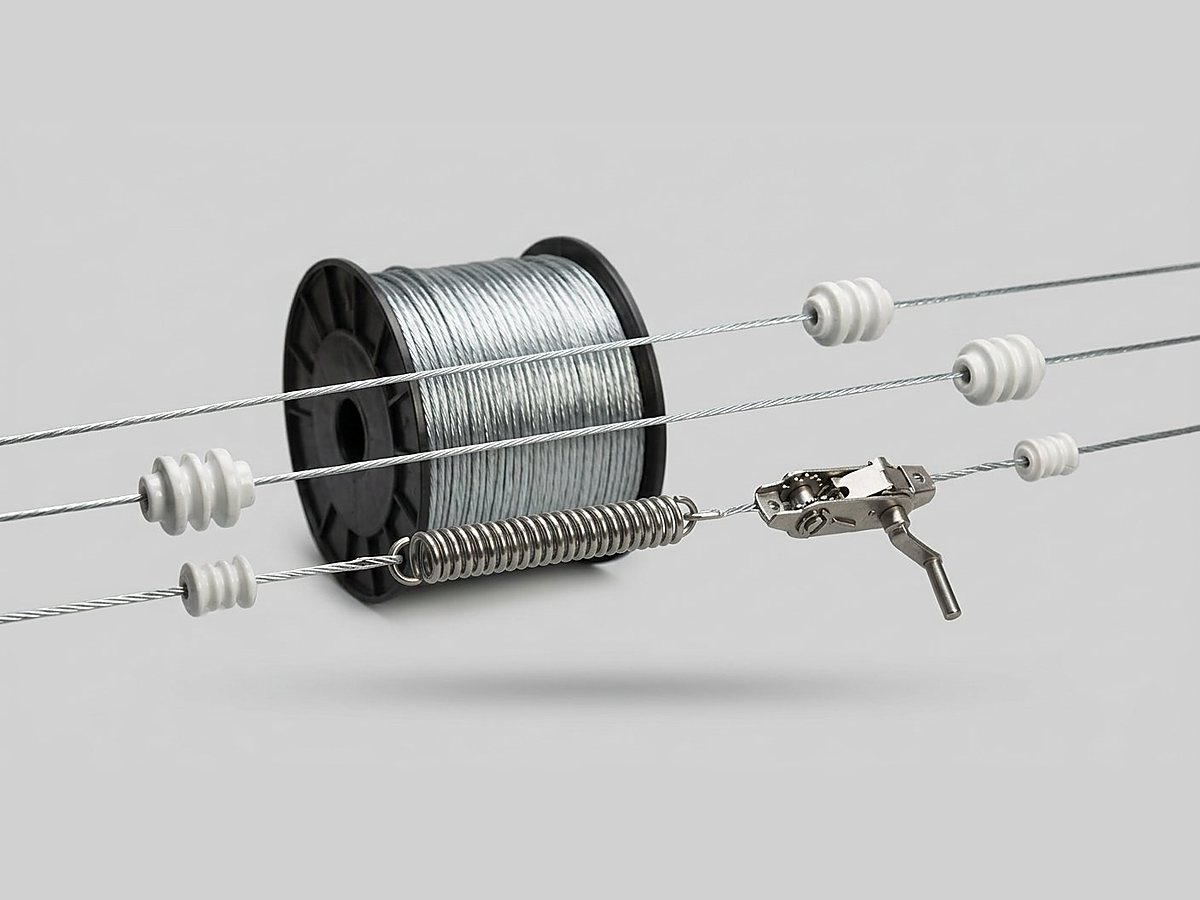
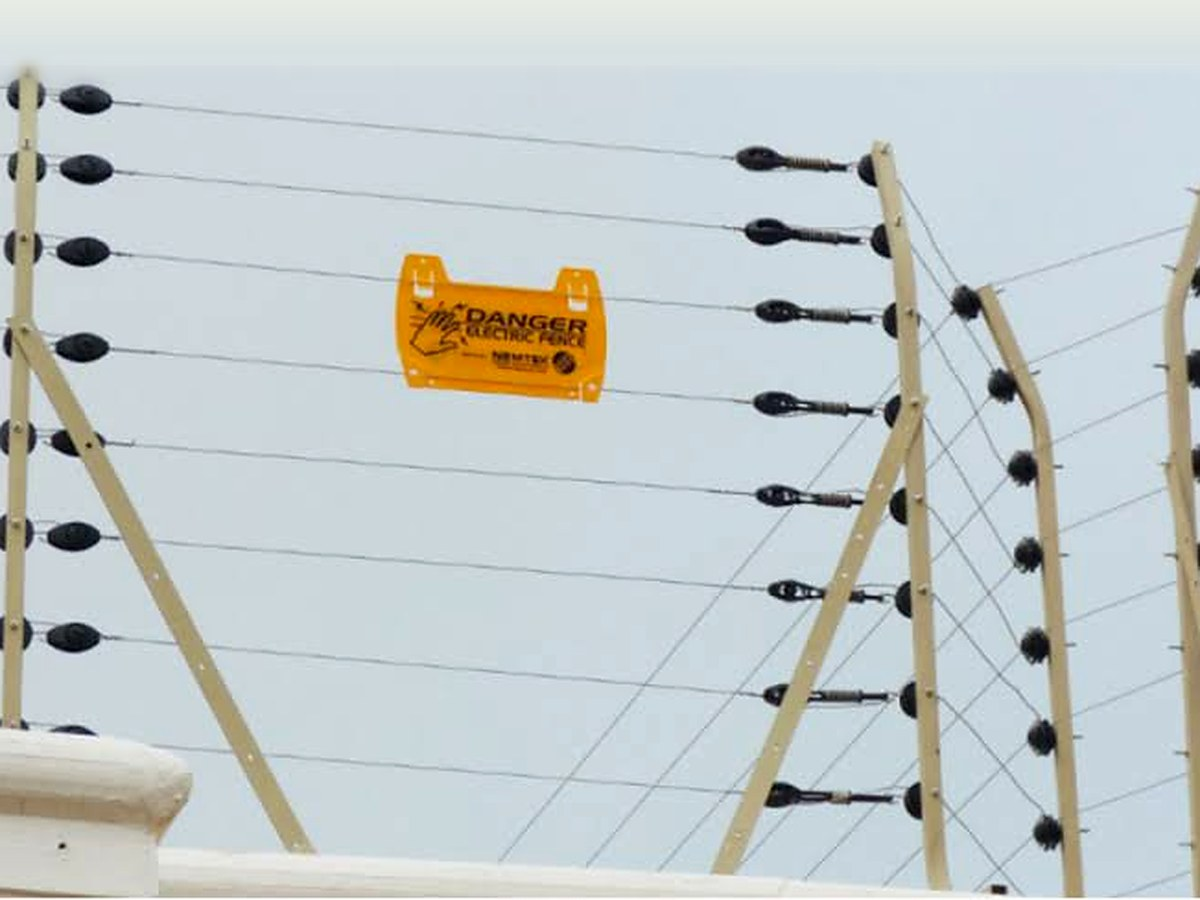
Use the real electric fence photograph
The generated studio shot is replaced with the photograph of an actual fence
run: wires on ceramic insulators above a perimeter wall, with a DANGER
ELECTRIC FENCE sign. It is the genuine article rather than a stand-in, so the
electric fence card is now a company photograph like the rest.

The source was 655x468 and mostly sky. Cropping to 4:3 would have sliced the
end posts off, so the run is kept full-width and the open sky extended to fill
the taller canvas instead.

CCTV remains the only generated imagery on the site \u2014 no photo of an actual
CCTV install has been supplied.

diff --git a/lib/content.ts b/lib/content.ts
@@ -61,7 +61,7 @@ export const services: Service[] = [
       "Electric fence wire supplied and installed to protect your perimeter.",
     image: "/images/company/service-electric-fence-wire.jpg",
     imageAlt:
-      "Galvanised electric fence wire on a spool with ceramic insulators and a tension spring",
+      "Electric fence wires on ceramic insulators above a perimeter wall, with a yellow DANGER ELECTRIC FENCE sign",
     icon: "fence",
   },
   {

diff --git a/README.md b/README.md
@@ -158,20 +158,20 @@ Almost every photograph on the site is the company's own, supplied directly:
   own showroom.
 - **Training** — Palmtree Solar Master cohorts, including one gathered outside
   the shop under the company signboard.
+- **Electric fence** — a fence run on ceramic insulators above a perimeter
+  wall, with a DANGER ELECTRIC FENCE sign (`service-electric-fence-wire.jpg`).
 - **The shop** — the Academy–Monatan Road premises and its signboard.
 
-**Three exceptions, all generated:** `service-cctv.jpg`,
-`product-cctv-cameras.jpg` and `service-electric-fence-wire.jpg` are
-AI-generated product shots — a dome security camera, and galvanised fence wire
-with ceramic insulators and a tension spring. No photograph of the company's
-own CCTV or fence work was supplied, and an unrelated photo would have
-misrepresented the work.
+**Two exceptions, both generated:** `service-cctv.jpg` and
+`product-cctv-cameras.jpg` are AI-generated studio shots of a dome security
+camera. No photograph of the company's own CCTV installations was supplied, and
+an unrelated photo would have misrepresented the work.
 
-These three are presentation images, not photographs of Palmtree's own jobs,
-and they are deliberately styled as neutral studio product shots rather than
-site photographs so nobody mistakes them for a completed installation. Replace
-them with real photos when available and point each service's `image` at the
-new file in `lib/content.ts`.
+They are presentation images, not photographs of Palmtree's own jobs, and are
+deliberately styled as neutral studio product shots rather than site
+photographs so nobody mistakes them for a completed installation. Replace them
+with real photos when available and point the service's `image` at the new file
+in `lib/content.ts`.
 
 ## Project structure
 
